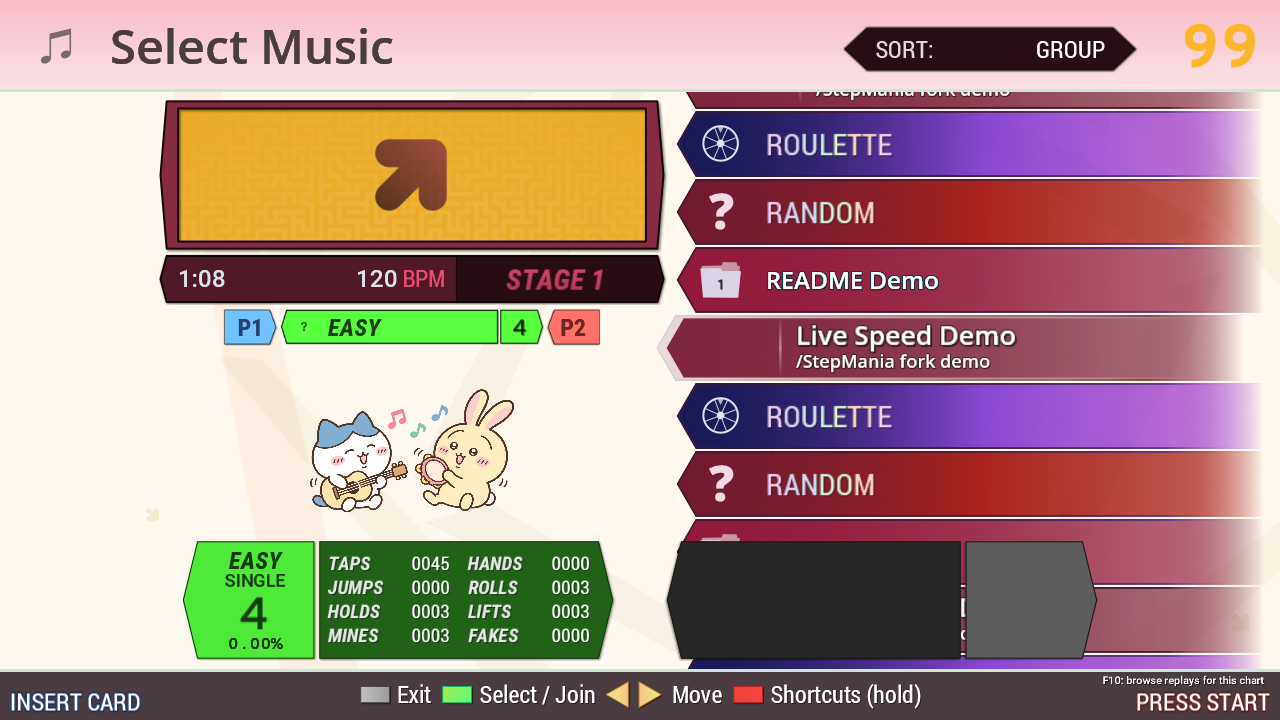
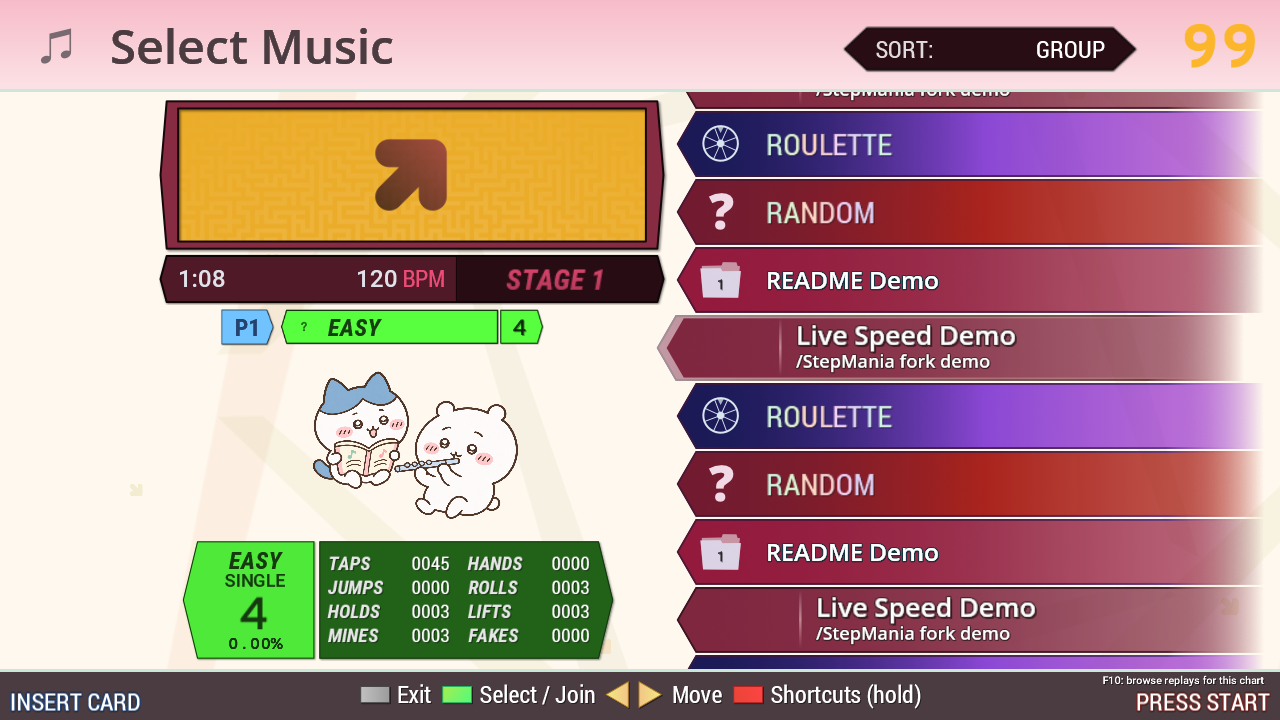
fix: hide inactive song-selection difficulty panes [skip ci]

diff --git a/PROGRESS.md b/PROGRESS.md
@@ -644,3 +644,23 @@ Validation:
 Plan checkpoint: `ce573e07ab`. Artwork checkpoint: `b752db6a95`. Final implementation checkpoint: `feat: add Chiikawa theme with random screen artwork [skip ci]`. The guide documents selecting the theme and retaining `default`/`_fallback`, along with Lua customization. Existing install rules already include the entire Themes tree.
 
 Limits: native checks use Linux software OpenGL and null audio; this build cannot verify audible OGG/media behavior, video synchronization, Windows x64 rendering, physical controllers or unusual song scripts. Two-player/double/wider-column suppression is covered by Lua checks; centered and P2-only layouts were additionally rendered. Windows verification remains pending for the next requested Windows build. No Windows ZIP or remote push was performed for this revision.
+
+
+## Follow-up: black panel on song selection
+
+Traced the reported screenshot panel to the default theme's unused P2 difficulty frame. The direct-screen capture path sets a temporary versus style in `ScreenSelectMusic::Init`; the pane's `IsHumanPlayer` test happens before `BeginScreen` selects compatible single-player styles. This is a stale visibility decision, not a missing graphic. Both inherited panes now use joined sides and refresh visibility on entry/join/leave while preserving active-player information, colors and animations.
+
+- [x] Identify the actor and startup-state cause.
+- [x] Correct both inherited player-pane visibility lifecycles.
+- [x] Verify native layouts/joins and replace the screenshot.
+- [x] Record validation and commit the correction.
+
+Validation in the isolated Linux native fixture:
+
+- Direct P1 song-selection startup at 1280×720 and 1024×768 hides the unused P2 pane. Joining P2 restores both populated difficulty/statistics panels at both sizes.
+- Normal title → mode → music navigation works for P1-only and P2-only at 1280×720. Joining P1 from P2-only restores the left chart panel.
+- The original default theme also hides the unused P2 panel on direct startup, confirming the shared decoration correction works outside Chiikawa.
+- No theme runtime or missing-reference errors occurred in the retained engine logs. The former panel interior's neutral dark pixels dropped from 28,196 to zero in the replacement native screenshot.
+- Updated `Docs/theme-preview/chiikawa/native/selection.png` with an unedited capture reached through normal P1 navigation. Native captures/logs are retained in ignored `out/chiikawa-pane-fix/`; `git diff --check` passed.
+
+Checkpoint: `fix: hide inactive song-selection difficulty panes [skip ci]`. This is a Lua-only correction; no executable rebuild or ZIP is needed. Windows rendering remains untested by this Linux verification.

diff --git a/EDIT_PLAN.md b/EDIT_PLAN.md
@@ -227,3 +227,12 @@ Add cream/pastel menu backgrounds with the original-style optional animation, an
 Checkpoints: commit this plan; commit inspected artwork and updated pools; implement the native theme, verify Lua and actual rendered screens in the isolated fixture, document installation and limits, and commit the completed feature. Test random selection stability and no repeats, valid assets, cached screen returns, 16:9/4:3, P1/P2 and crowded layouts, motion off/on, gameplay speed/pause, and replay return. No Windows ZIP or remote push is requested.
 
 Completed: added the selectable inherited Chiikawa theme, five new instrument scenes, stable random selection in screen underlays, optional menu motion, and minimal replay-browser styling hooks. Native Linux rendering and focused selection/graph/replay checks passed; screenshots, installation guidance and Windows/audio/video limits are recorded in the theme guide and `PROGRESS.md`.
+
+
+## Follow-up: inactive selection panel
+
+The native Chiikawa song-selection screenshot shows a black/gray unused P2 difficulty panel. Direct `TestInitialScreen=ScreenSelectMusic` startup temporarily sets a versus style before loading decorations, so their initialization-time `IsHumanPlayer` check treats both sides as active. `BeginScreen` then selects a single-player style, leaving the unused backdrop visible.
+
+Make each inherited difficulty pane use actual joined-side state, refresh visibility on screen entry, and hide when its player leaves. Keep the existing joined-player chart data and animations. Verify direct entry, ordinary title-to-selection navigation, P1-only, P2-only and a second player joining at 16:9/4:3. Refresh the native selection screenshot, record checks and commit this focused Lua correction. No executable rebuild is needed.
+
+Completed: both panes now follow joined-player state on initialization, screen entry, join and leave. Native checks passed for direct entry at 16:9/4:3, normal P1-only and P2-only navigation, late joins with populated chart details, and the original default theme. Replaced the selection preview with an unedited capture from normal P1 navigation.

diff --git a/Docs/theme-preview/chiikawa/native/README.md b/Docs/theme-preview/chiikawa/native/README.md
@@ -4,7 +4,7 @@ These are actual StepMania screens rendered on Linux on 2026-11-08, separate fro
 
 ![Title with the flute-practice illustration](title.png)
 
-![Song selection with an acoustic duet clear of the banner and song wheel](selection.png)
+![P1 song selection with a flute duet and the unused P2 difficulty pane hidden](selection.png)
 
 ![Gameplay with original notes, judgment, graph and persistent speed display](gameplay.png)
 
@@ -14,4 +14,4 @@ These are actual StepMania screens rendered on Linux on 2026-11-08, separate fro
 
 The screenshots are unedited native captures. Random choices differ on future visits. The playable theme inherits the original functional panels, notes, fonts, and judgments. Windows x64, physical controller input, and audible media synchronization need checking on the next Windows build; these captures do not verify them.
 
-[Install and customize the theme](../../../../Themes/chiikawa/README.md). Extended native captures and test logs remain under ignored `out/chiikawa-native/` in the development workspace.
+[Install and customize the theme](../../../../Themes/chiikawa/README.md). Extended native captures and test logs remain under ignored `out/chiikawa-native/` in the development workspace. The selection capture was refreshed through normal title-menu navigation after correcting inactive-player pane visibility; its layout and player-join checks are under `out/chiikawa-pane-fix/`.
